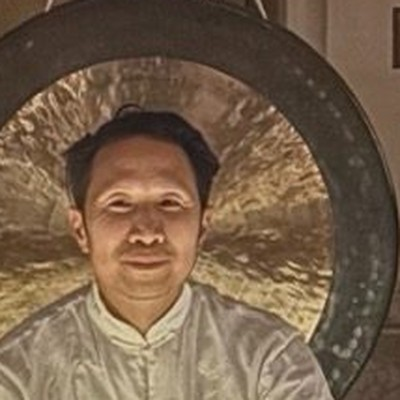
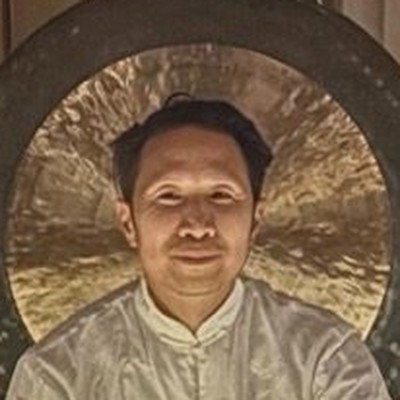
volunteer mode: portrait re-cropped, face centred in the gong halo
Claude-Session: https://claude.ai/code/session_01QNcjFZZnF4LymweZXavSr2

diff --git a/volunteer-board/volunteer.js b/volunteer-board/volunteer.js
@@ -7,7 +7,7 @@
   const API_URL = 'https://script.google.com/macros/s/AKfycbzzu1jXVtwDuHyBThe62Ipc10UzBJkDQDACGZfe5oEF9jXIUl3qtGjbJD2c3IW_q4EjKQ/exec';
   const FORM = 'https://formsubmit.co/ajax/68bf44fd6c680760a90740f0fc752510';
   const META_KEY = 'volunteer-events-meta', SIGNUPS_KEY = 'volunteer-signups', BLURB_KEY = 'volunteer-board-blurb';
-  const FACE = 'https://events.earthharmonysoundwellness.com/photos/marcus-face-gong-halo.jpg';
+  const FACE = 'https://events.earthharmonysoundwellness.com/photos/marcus-face-gong-halo.jpg?v=2';
   const DEFAULT_BLURB = 'Hi friends — these are the next gigs where I welcome support. Come give your gift of presence. Exchange for a session, <em>learn</em>, <em>assist</em>, and <em>shadow</em> the work. 🌹';
   const ROLE_PRESETS = ['Host: sweep, set up mats & blankets, welcome guests', 'Welcome hosts · move + set up equipment', 'Greet + welcome guests', 'Room setup: candles, mats, blankets', 'Roving / small percussion', 'Snore patrol', 'Load drums in + out'];
   const EX_PRESETS = ['A spot in the session', 'Sound therapy mentoring: serve one session, sit the other', 'Community Sound Bath pass', 'A session trade: a Harmonic OM or Community Sound Bath spot'];

diff --git a/index.html b/index.html
@@ -1533,6 +1533,6 @@ loadConfig().then(()=>{
     -webkit-tap-highlight-color:transparent}
   #vr-door:hover,#vr-door:focus{color:rgba(212,175,55,.95);background:rgba(212,175,55,.09)}
 </style>
-<script>/* volunteer layer: only with ?volunteer */ if(new URLSearchParams(location.search).has('volunteer')){var s=document.createElement('script');s.src='volunteer-board/volunteer.js?v=5';document.body.appendChild(s);}</script>
+<script>/* volunteer layer: only with ?volunteer */ if(new URLSearchParams(location.search).has('volunteer')){var s=document.createElement('script');s.src='volunteer-board/volunteer.js?v=6';document.body.appendChild(s);}</script>
 </body>
 </html>
